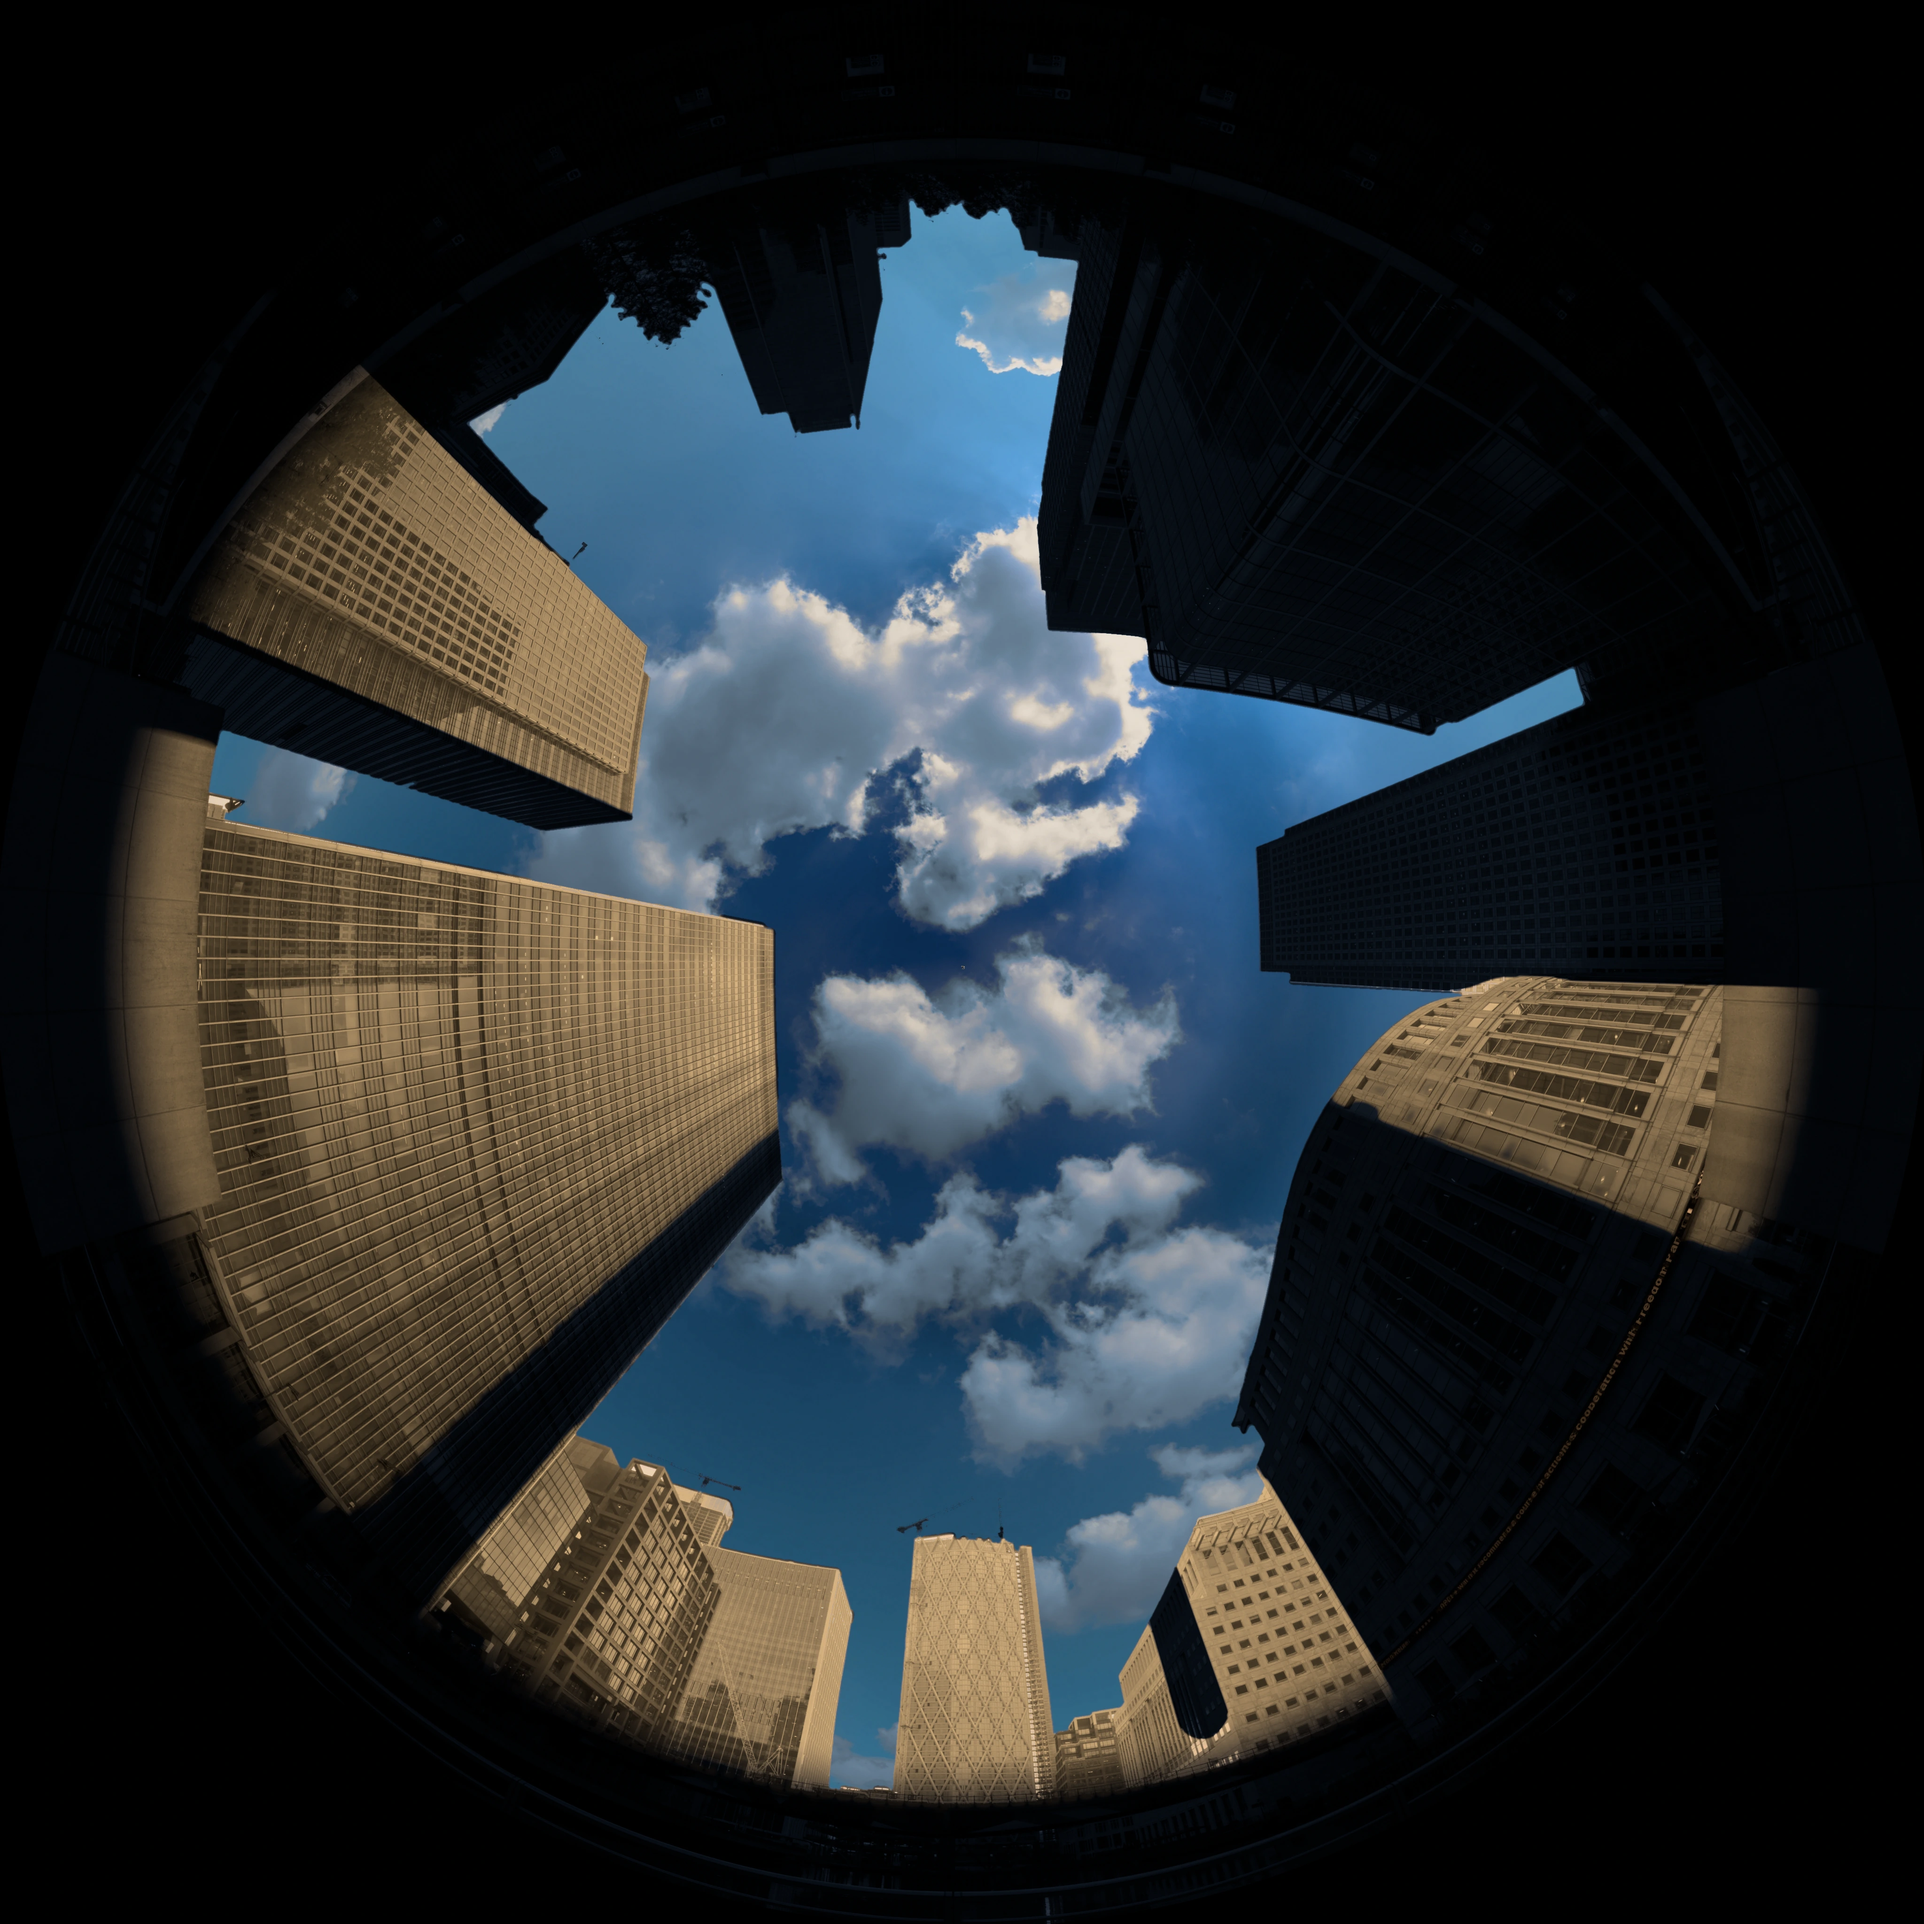
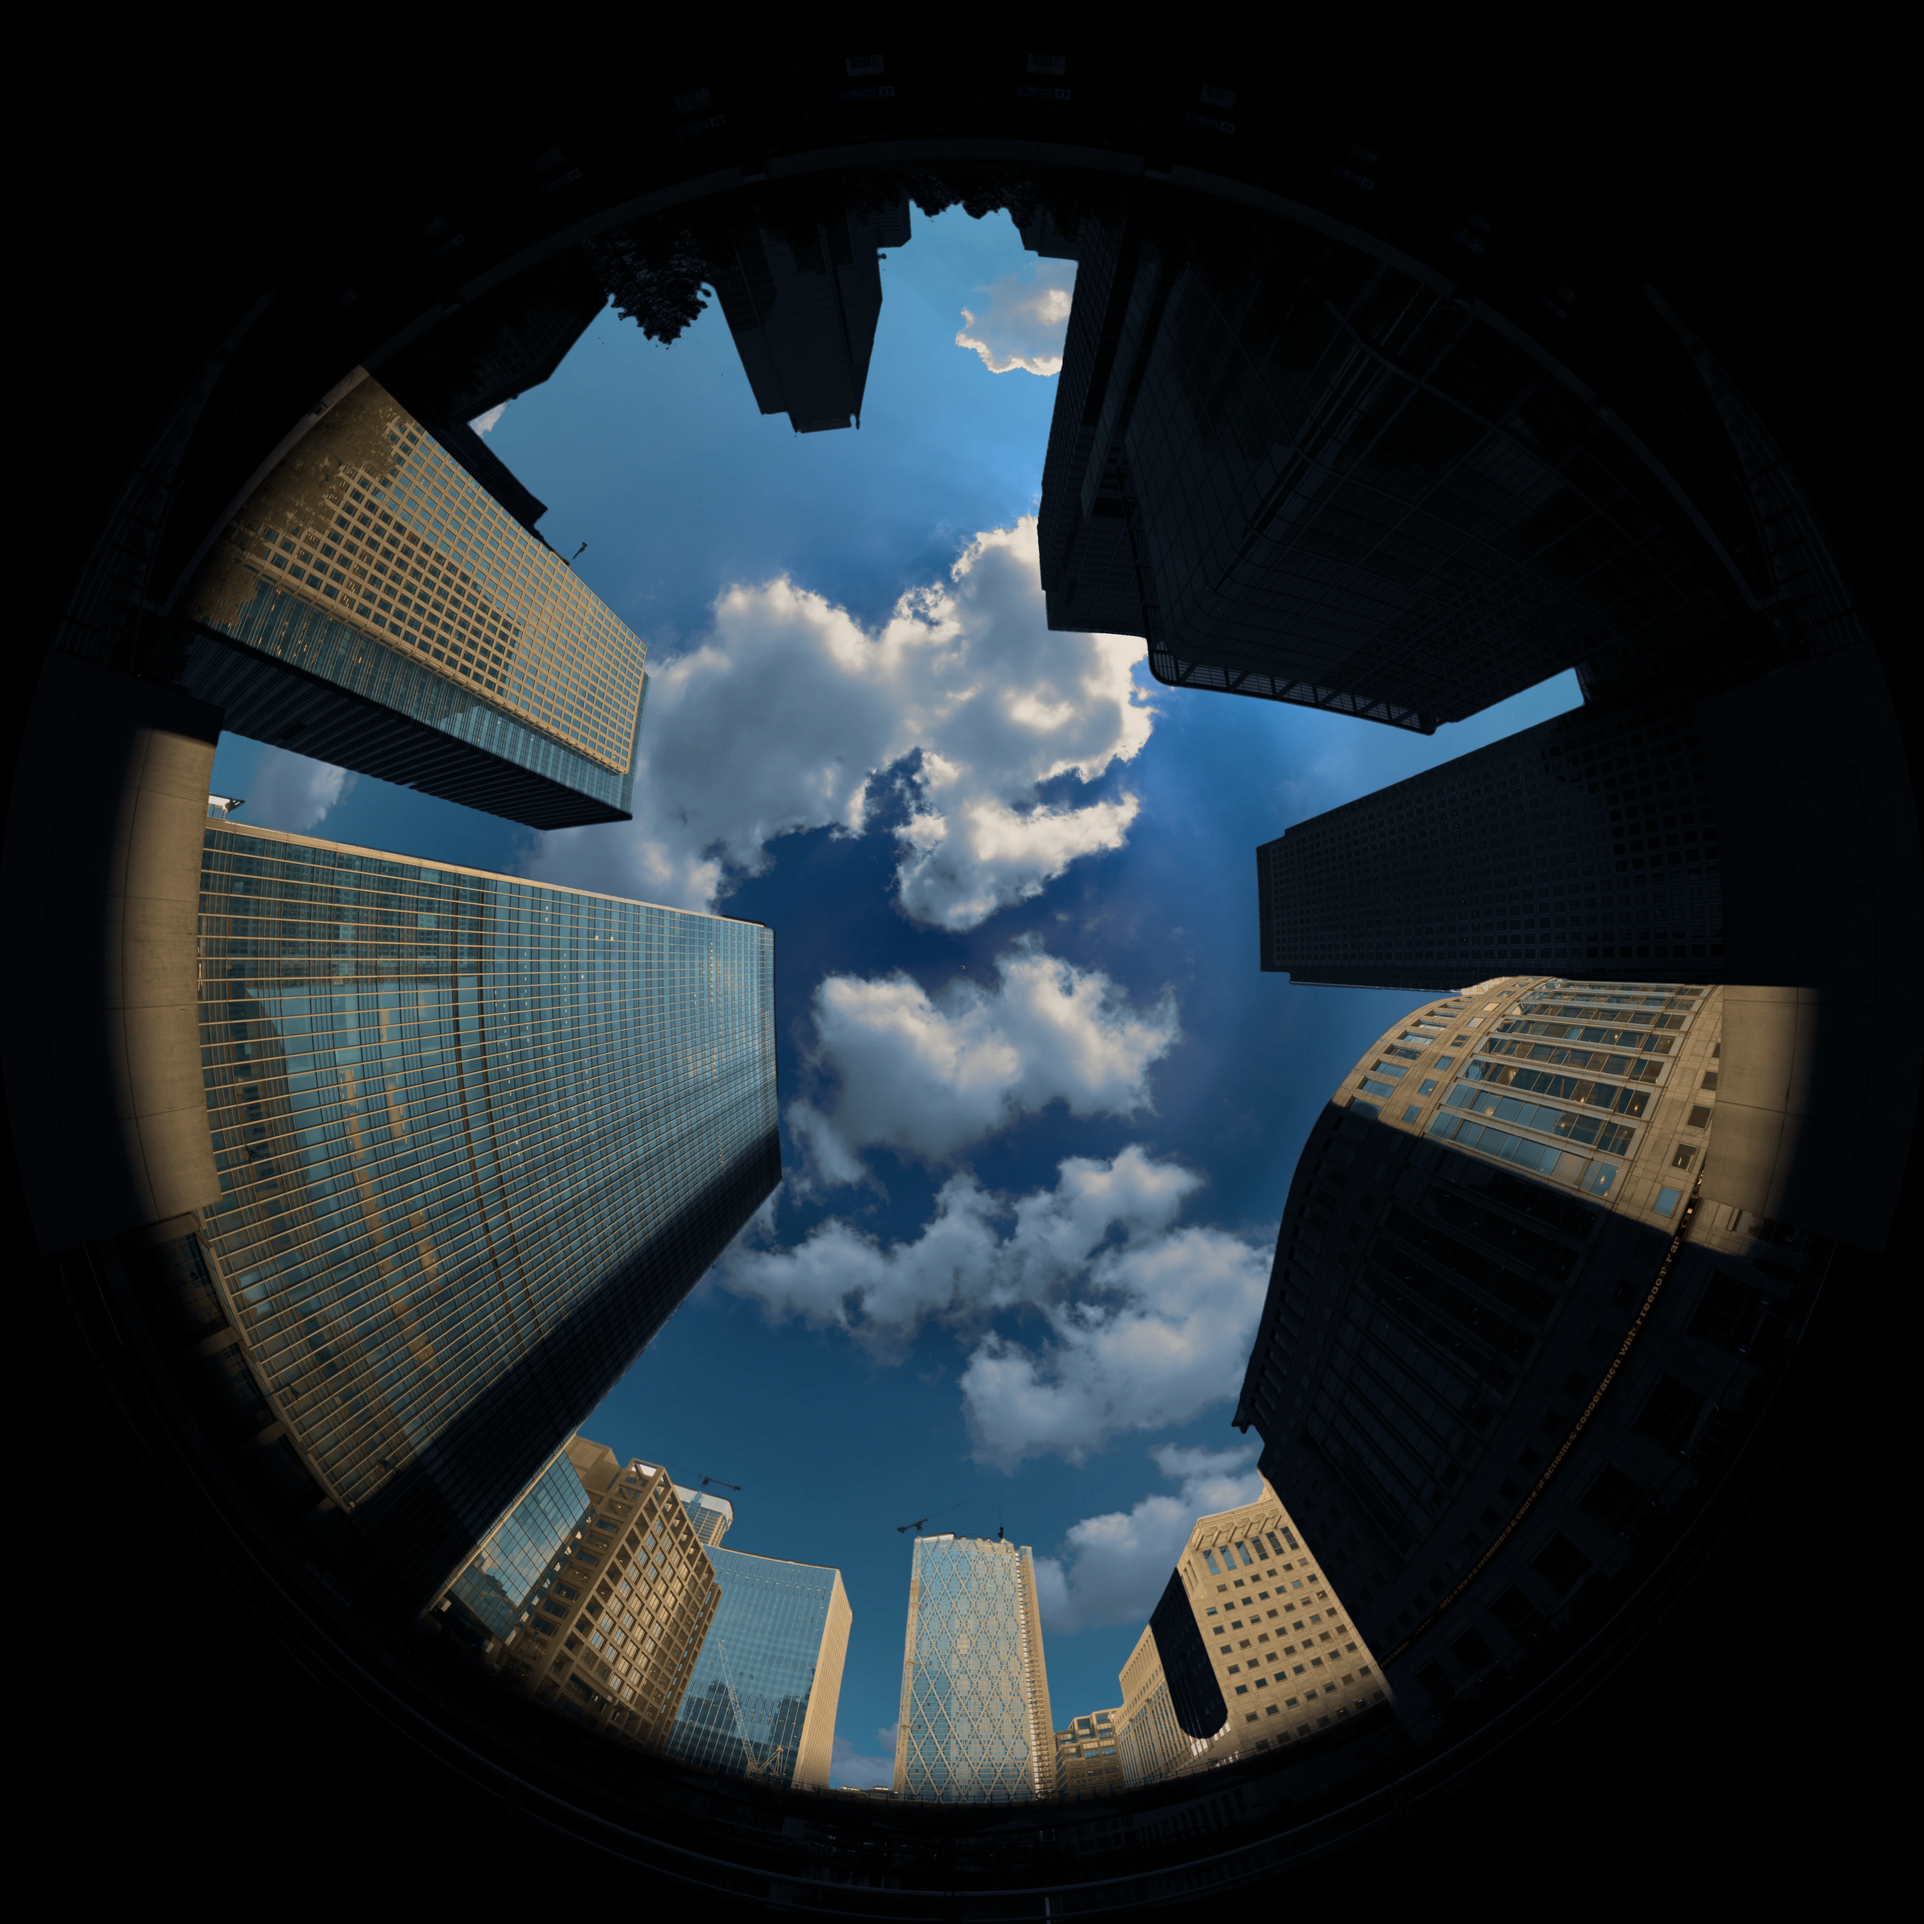
Lab: climb focal-length round 1
Claude-Session: https://claude.ai/code/session_01RqENhngNCzDFmJWDZueXGV

diff --git a/src/app/lab/focal-length/focalLengthEngine.js b/src/app/lab/focal-length/focalLengthEngine.js
@@ -8,7 +8,8 @@ import { createFilm } from "../_kit/film";
 // summer cumulus sky (Poly Haven, CC0) set in behind the towers, graded
 // offline and stored as a zenith cap: an azimuthal equidistant map, theta
 // from the zenith out to 95 degrees, plus a native-resolution inset of the
-// centre for the long end. Every pixel is a ray through one radial family,
+// centre 47.5 degrees, which holds the whole frame from 20 mm to 50 mm and
+// the middle of it below that. Every pixel is a ray through one radial family,
 //
 //   r = f k tan(theta / k)
 //
@@ -25,7 +26,7 @@ import { createFilm } from "../_kit/film";
 
 const ASSET = "/lab/focal-length/";
 const TM = 95; // degrees from the zenith covered by the outer cap
-const RI = 0.25; // the inner inset covers rho <= 0.25 (23.75 degrees)
+const RI = 0.5; // the inner inset covers rho <= 0.5 (47.5 degrees: the whole frame at 20 mm)
 const ENC = 2.0; // the caps store scene light / 2, sRGB-encoded
 const HALF_DIAG = 21.633; // mm, full frame
 

diff --git a/tools/depth/bakes/focal-length/regrade_towers.py b/tools/depth/bakes/focal-length/regrade_towers.py
@@ -3,6 +3,9 @@
 # and cumulus whose lower half is skylight blue, not neutral grey. The
 # projection, the sky ramp and the cloud tops are left as they are.
 # python3 -I regrade_towers.py outer.webp inner.webp outdir '{params}' [debug.png]
+# as published: '{"srcO": "canary4k.npy", "srcI": "canarycrop.npy"}', the
+# 8192 canary cap (cap16.py) downsampled to 4096 and its centre 4608 crop,
+# on export3.py's plates with INNER 4096
 # Inputs are export3.py's plates, before this pass: running it on the
 # published plates would regrade them twice.
 #
@@ -17,11 +20,22 @@
 #   lit:   Y * 2^litStops (+0.7 stop), tinted warm gold (35 deg; S 0.42 in
 #          plate light lands at about 0.38, hue 37, through the film),
 #          its texture around the face mean steepened a little (litCon),
-# under the same per-channel shoulder as the cloud tops. In the sky, cloud
-# (low saturation) below the middle of its own luminance range is moved to
-# skylight blue (208 deg, S 0.3) at its own luminance, never brightened.
-# The inner inset takes the outer plate's matte and sun map sampled by angle,
-# refined at the edges by its own pixels, so both plates agree.
+# under the same per-channel shoulder as the cloud tops. On the lit faces
+# only the stone and the mullions take the gold: the glass keeps the hue it
+# had in the capture (a cool grey-teal, read from the source cap's own
+# chroma, src*), a little more saturated and with some skylight in it, so
+# teal glass and warm stone sit side by side. Glass in the shade keeps a
+# little more skylight than the stone round it, so windows still read.
+# In the sky, every cloud pixel (low saturation) is split-toned by one smooth
+# key on its log luminance: a logistic centred on the 75th percentile of the
+# cloud luminance (cKey), cWidth stops wide, warm-neutral #FFF4E6 above it
+# and skylight blue (208 deg, S 0.36) below, both at the pixel's own
+# luminance. No percentile is a hard edge, so the split draws no contour.
+# The inner inset (innerDeg, the centre 47.5 degrees: the full frame at
+# 20 mm) takes the outer plate's matte and sun map sampled by angle, refined
+# at the edges by its own pixels, so both plates agree.
+# srcO / srcI: the source canary caps at each plate's geometry (float16 npy,
+# the 4096 cap and the native crop; the crop is cut to the inset's centre).
 import sys, json, numpy as np, cv2
 from PIL import Image
 LUMA = np.array([0.2126, 0.7152, 0.0722], np.float32)
@@ -29,7 +43,9 @@ P = dict(q=93,
          shGain=0.2, shGam=1.0, shHue=212.0, shSat=0.42, shKeep=0.2, shFloor=0.0,
          litStops=0.7, litHue=35.0, litSat=0.42, litKeep=0.1, litCon=1.15,
          wLo=0.0, wHi=0.07, wClip=0.12, incDeg=0.35,
-         cHue=208.0, cSat=0.3, cAmt=1.0, cLo=45, cHi=75, cS0=0.5, cS1=0.3,
+         cHue=208.0, cSat=0.36, cAmt=1.0, cKey=75, cWidth=0.28, topHex='#fff4e6', cS0=0.5, cS1=0.3,
+         innerDeg=47.5, srcO='', srcI='', gW0=-0.13, gW1=-0.24, gBlur=1.0,
+         glassSat=1.15, glassY=0.75, glassHue=178.0, glassSky=0.5, shGlass=0.6, shGlassKeep=0.5,
          yGuard0=0.28, yGuard1=0.4, hiKnee=0.625, hiCeil=1.0)
 if len(sys.argv) > 4: P.update(json.loads(sys.argv[4]))
 DBG = sys.argv[5] if len(sys.argv) > 5 else ''
@@ -77,12 +93,13 @@ def matte_outer(lin, th):
 
 O = load(sys.argv[1]); I = load(sys.argv[2]); outdir = sys.argv[3]
 NO, NI = O.shape[0], I.shape[0]
-thO = theta(NO, 95.0); thI = theta(NI, 23.75)
-ppdO = NO / 2 / 95.0; ppdI = NI / 2 / 23.75
+RID = P['innerDeg']
+thO = theta(NO, 95.0); thI = theta(NI, RID)
+ppdO = NO / 2 / 95.0; ppdI = NI / 2 / RID
 mO = matte_outer(O, thO)
 # inner: the outer matte by angle; in a band round its edges the inset's own
 # pixels decide, at the inset's resolution
-h = int(round(NO / 2 * 23.75 / 95.0)); c0 = NO // 2
+h = int(round(NO / 2 * RID / 95.0)); c0 = NO // 2
 up = cv2.resize(mO[c0 - h:c0 + h, c0 - h:c0 + h].astype(np.float32), (NI, NI), interpolation=cv2.INTER_LINEAR)
 k5 = np.ones((5, 5), np.uint8)
 ins = cv2.erode((up > 0.5).astype(np.uint8), k5); grow = cv2.dilate((up > 0.5).astype(np.uint8), k5)
@@ -106,14 +123,32 @@ LI = cv2.resize(Lsun[c0 - h:c0 + h, c0 - h:c0 + h], (NI, NI), interpolation=cv2.
 SsO = 1 - l2s(O).min(-1) / (l2s(O).max(-1) + 1e-5)
 cwO = smooth(P['cS0'], P['cS1'], SsO) * (mO > 0.99) * (thO < 80)
 YO = O @ LUMA
-cpc = np.percentile(YO[cwO > 0.9][::5], [P['cLo'], P['cHi']])
-print('cloud Y pct', cpc.round(4), 'sun share of tower', float((Lsun * tw).sum() / tw.sum()))
+cpc = np.percentile(YO[cwO > 0.9][::5], [25, 50, P['cKey'], 95])
+print('cloud Y pct 25/50/key/95', cpc.round(4), 'sun share of tower', float((Lsun * tw).sum() / tw.sum()))
+LK = np.log2(cpc[2])
+
+# ---- glass key and the capture's own chroma, from the source cap
+def src_of(path, N):
+    if not path: return None
+    a = np.load(path, mmap_mode='r')
+    if a.shape[0] > N:
+        o = (a.shape[0] - N) // 2; a = a[o:o + N, o:o + N]
+    a = np.asarray(a).astype(np.float32)
+    if a.shape[0] != N: a = cv2.resize(a, (N, N), interpolation=cv2.INTER_AREA)
+    w0 = cv2.GaussianBlur((a[..., 0] - a[..., 2]) / (a.sum(-1) + 1e-3), (0, 0), P['gBlur'] * N / NO)
+    kg = smooth(P['gW0'], P['gW1'], w0).astype(np.float32)
+    oc = a / (a @ LUMA + 1e-4)[..., None]
+    oc = np.maximum(1 + (oc - 1) * P['glassSat'], 0.05)
+    return kg, (oc / (oc @ LUMA)[..., None]).astype(np.float32)
+SRC_O = src_of(P['srcO'], NO); SRC_I = src_of(P['srcI'], NI)
 
 sh_t = unit(hsv2lin(P['shHue'], P['shSat'])); lit_t = unit(hsv2lin(P['litHue'], P['litSat']))
 cl_t = unit(hsv2lin(P['cHue'], P['cSat']))
+hx = P['topHex']; top_t = unit(s2l(np.array([int(hx[i:i + 2], 16) / 255 for i in (1, 3, 5)], np.float32)))
+gl_t = unit(hsv2lin(P['glassHue'], 0.3))
 print('shade tint', sh_t.round(3), 'lit tint', lit_t.round(3), 'cloud shade', cl_t.round(3))
 
-def grade(X, m, L, ppd):
+def grade(X, m, L, ppd, src):
     Y = X @ LUMA
     chroma = X / (Y[..., None] + 1e-6)
     # local contrast on lit faces: the face's own texture, around its mean
@@ -122,14 +157,25 @@ def grade(X, m, L, ppd):
     Ysh = P['shGain'] * Y ** P['shGam'] * (0.05 ** (1 - P['shGam'])) + P['shFloor']
     csh = sh_t + (chroma - sh_t) * P['shKeep']
     clit = lit_t + (chroma - lit_t) * P['litKeep']
+    if src is not None:
+        # glass keeps the capture's cool hue (with some skylight in it); only
+        # stone and mullions take the gold
+        kg, oc = src
+        k3 = kg[..., None]
+        cgl = oc + (gl_t - oc) * P['glassSky']
+        clit = clit + (cgl - clit) * k3
+        Ylit = Ylit * (1 + (P['glassY'] - 1) * kg)
+        csh = csh + (sh_t + (oc - sh_t) * P['shGlassKeep'] - csh) * k3
+        Ysh = Ysh * (1 + P['shGlass'] * kg)
     L3 = L[..., None]
     T = (1 - L3) * csh * Ysh[..., None] + L3 * clit * Ylit[..., None]
-    # sky: cloud below the middle of its range takes skylight blue
+    # sky: one smooth luminance key splits every cloud pixel between the
+    # warm-neutral shoulder and skylight blue, at its own luminance
     Ss = 1 - l2s(X).min(-1) / (l2s(X).max(-1) + 1e-5)
-    cw = smooth(P['cS0'], P['cS1'], Ss)
-    ws = cw * smooth(cpc[1], cpc[0], Y) * P['cAmt']
-    tgt = cl_t * Y[..., None]
-    Sk = X + (tgt - X) * ws[..., None]
+    cw = (smooth(P['cS0'], P['cS1'], Ss) * P['cAmt'])[..., None]
+    kk = (1 / (1 + np.exp(-(np.log2(np.maximum(Y, 1e-5)) - LK) / P['cWidth'])))[..., None]
+    tgt = (cl_t + (top_t - cl_t) * kk) * Y[..., None]
+    Sk = X + (tgt - X) * cw
     # cloud tops the matte missed (bright, warm, beside a crown) are never
     # tower: nothing on a facade is that bright
     tw = (1 - m) * (1 - smooth(P['yGuard0'], P['yGuard1'], Y))
@@ -142,9 +188,9 @@ def grade(X, m, L, ppd):
     out = Sk * (1 - tw)[..., None] + T * tw[..., None]
     return np.maximum(out, 0)
 
-On = grade(O, mO, Lsun, ppdO)
+On = grade(O, mO, Lsun, ppdO, SRC_O)
 On *= (thO < 95 * 1.004)[..., None]
-In = grade(I, mI, LI, ppdI)
+In = grade(I, mI, LI, ppdI, SRC_I)
 def save(X, path, seed):
     v = l2s(X)
     rng = np.random.default_rng(seed)

diff --git a/tools/depth/bakes/focal-length/export3.py b/tools/depth/bakes/focal-length/export3.py
@@ -1,15 +1,18 @@
-# python3 -I export3.py outer4k.npy inner_crop.npy outdir ENC q   (ENC 2, q 93)
+# python3 -I export3.py outer4k.npy inner_crop.npy outdir ENC q [INNER]   (ENC 2, q 93)
+# INNER: the inset's side in px, cut from the centre of inner_crop (default
+# 2048, the centre 23.75 degrees of the 8192 cap; 4096 is the centre 47.5).
 import sys, os, numpy as np, cv2
 from PIL import Image
 O = np.load(sys.argv[1]).astype(np.float32); I = np.load(sys.argv[2]).astype(np.float32)
 out, ENC, q = sys.argv[3], float(sys.argv[4]), int(sys.argv[5])
+NI = int(sys.argv[6]) if len(sys.argv) > 6 else 2048
 def enc(x, seed):
     v = np.clip(x / ENC, 0, 1)
     sr = np.where(v <= 0.0031308, v * 12.92, 1.055 * np.power(v, 1 / 2.4) - 0.055)
     rng = np.random.default_rng(seed)
     return np.clip(sr * 255 + (rng.uniform(-0.5, 0.5, sr.shape) + rng.uniform(-0.5, 0.5, sr.shape)), 0, 255).astype(np.uint8)
 c = I.shape[0] // 2
-inner = I[c - 1024:c + 1024, c - 1024:c + 1024].copy()
+inner = I[c - NI // 2:c + NI // 2, c - NI // 2:c + NI // 2].copy()
 def patch_pole(img, c0, R):
     # both plates leave a few stray pixels at the exact zenith. Find them
     # (off the local median by more than 12%, within R of the pole) and
@@ -25,7 +28,7 @@ def patch_pole(img, c0, R):
     img[s0, s0] = blk
     print('pole px', int(m.sum()))
     return img
-inner = patch_pole(inner, 1024, 24)
+inner = patch_pole(inner, NI // 2, 24)
 inner = cv2.GaussianBlur(inner, (0, 0), 0.6)
 Image.fromarray(enc(inner, 1)).save(f'{out}/inner.webp', quality=q, method=6)
 O = patch_pole(O, 2048, 24)
